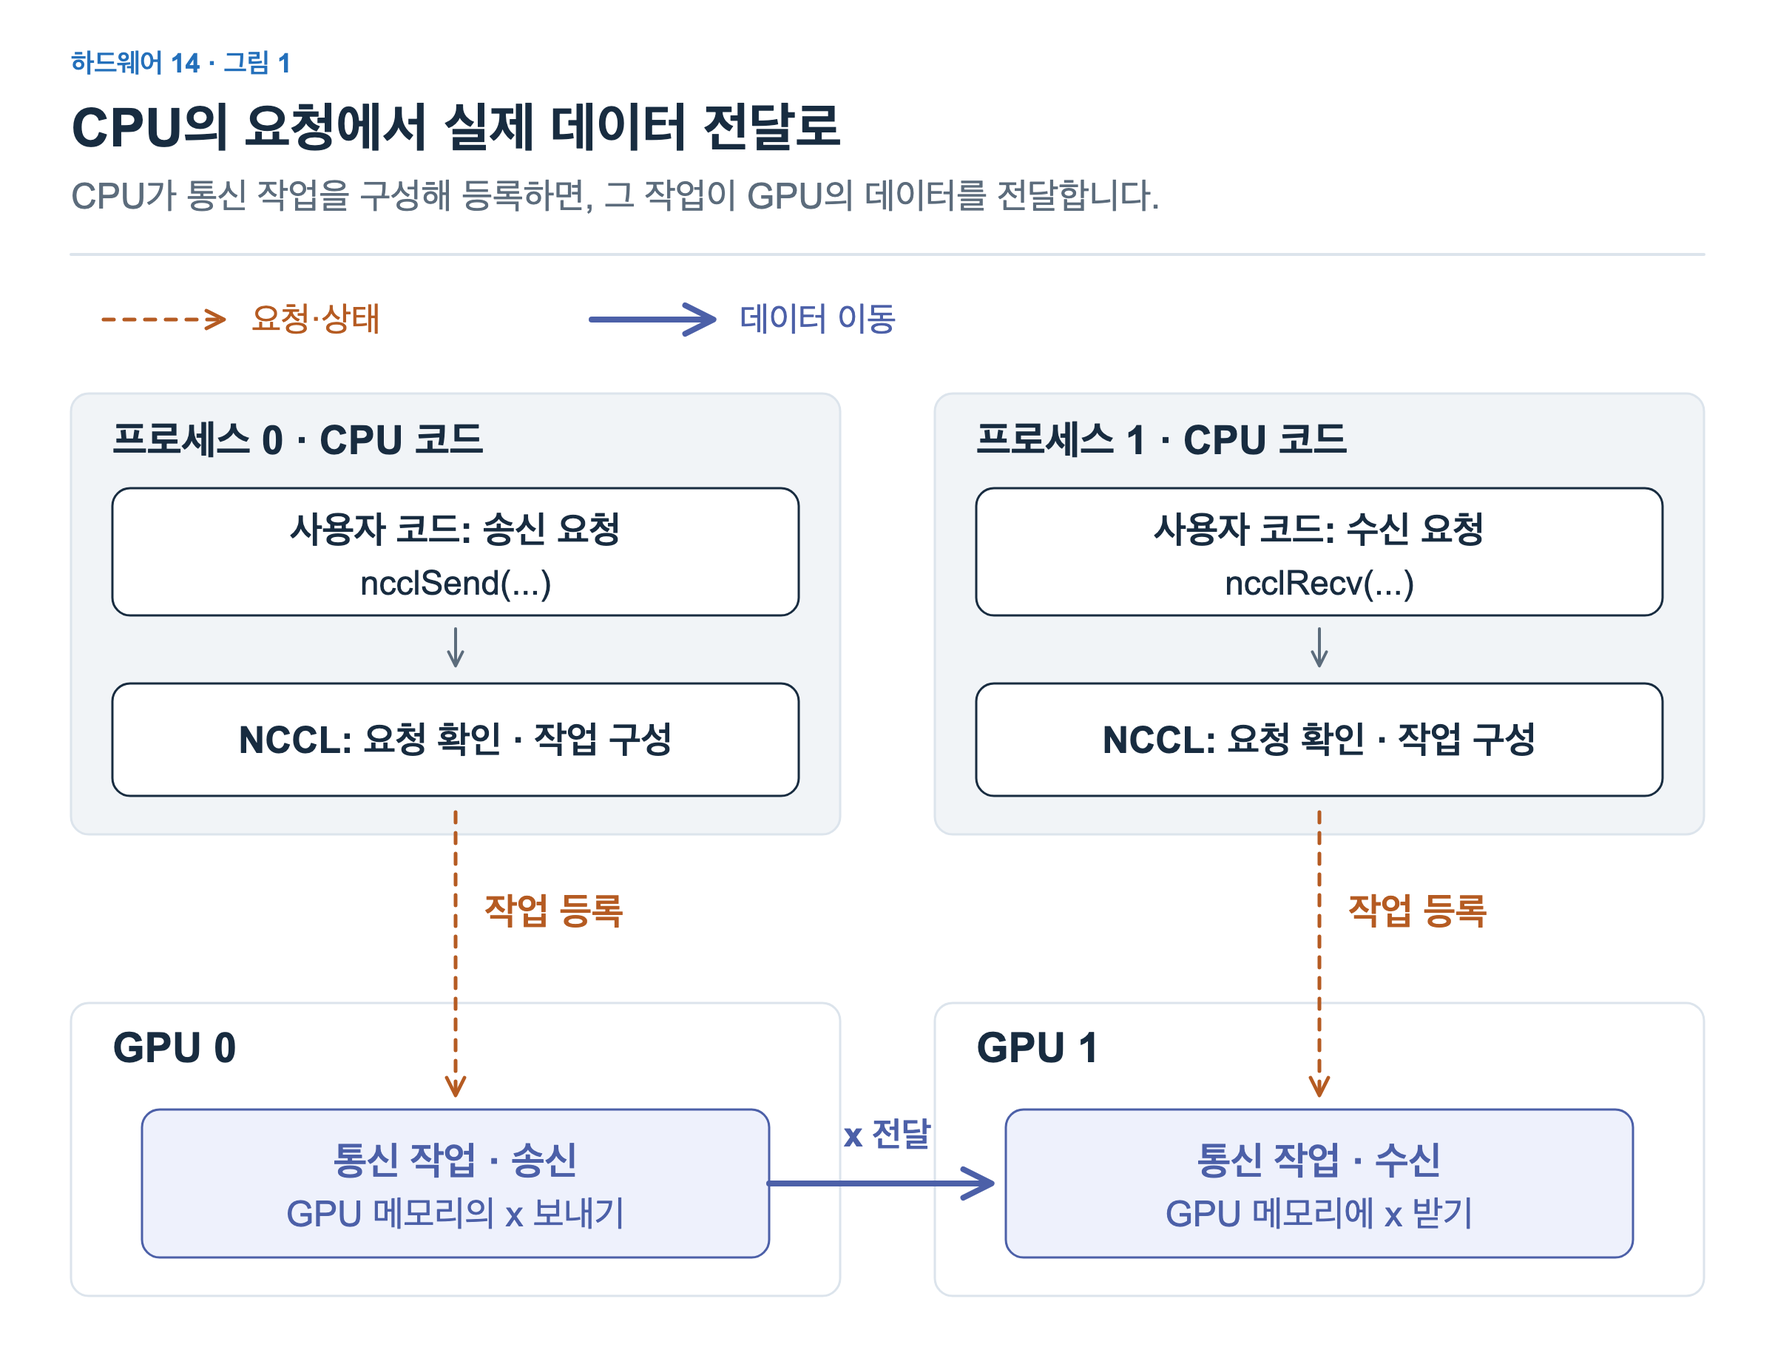
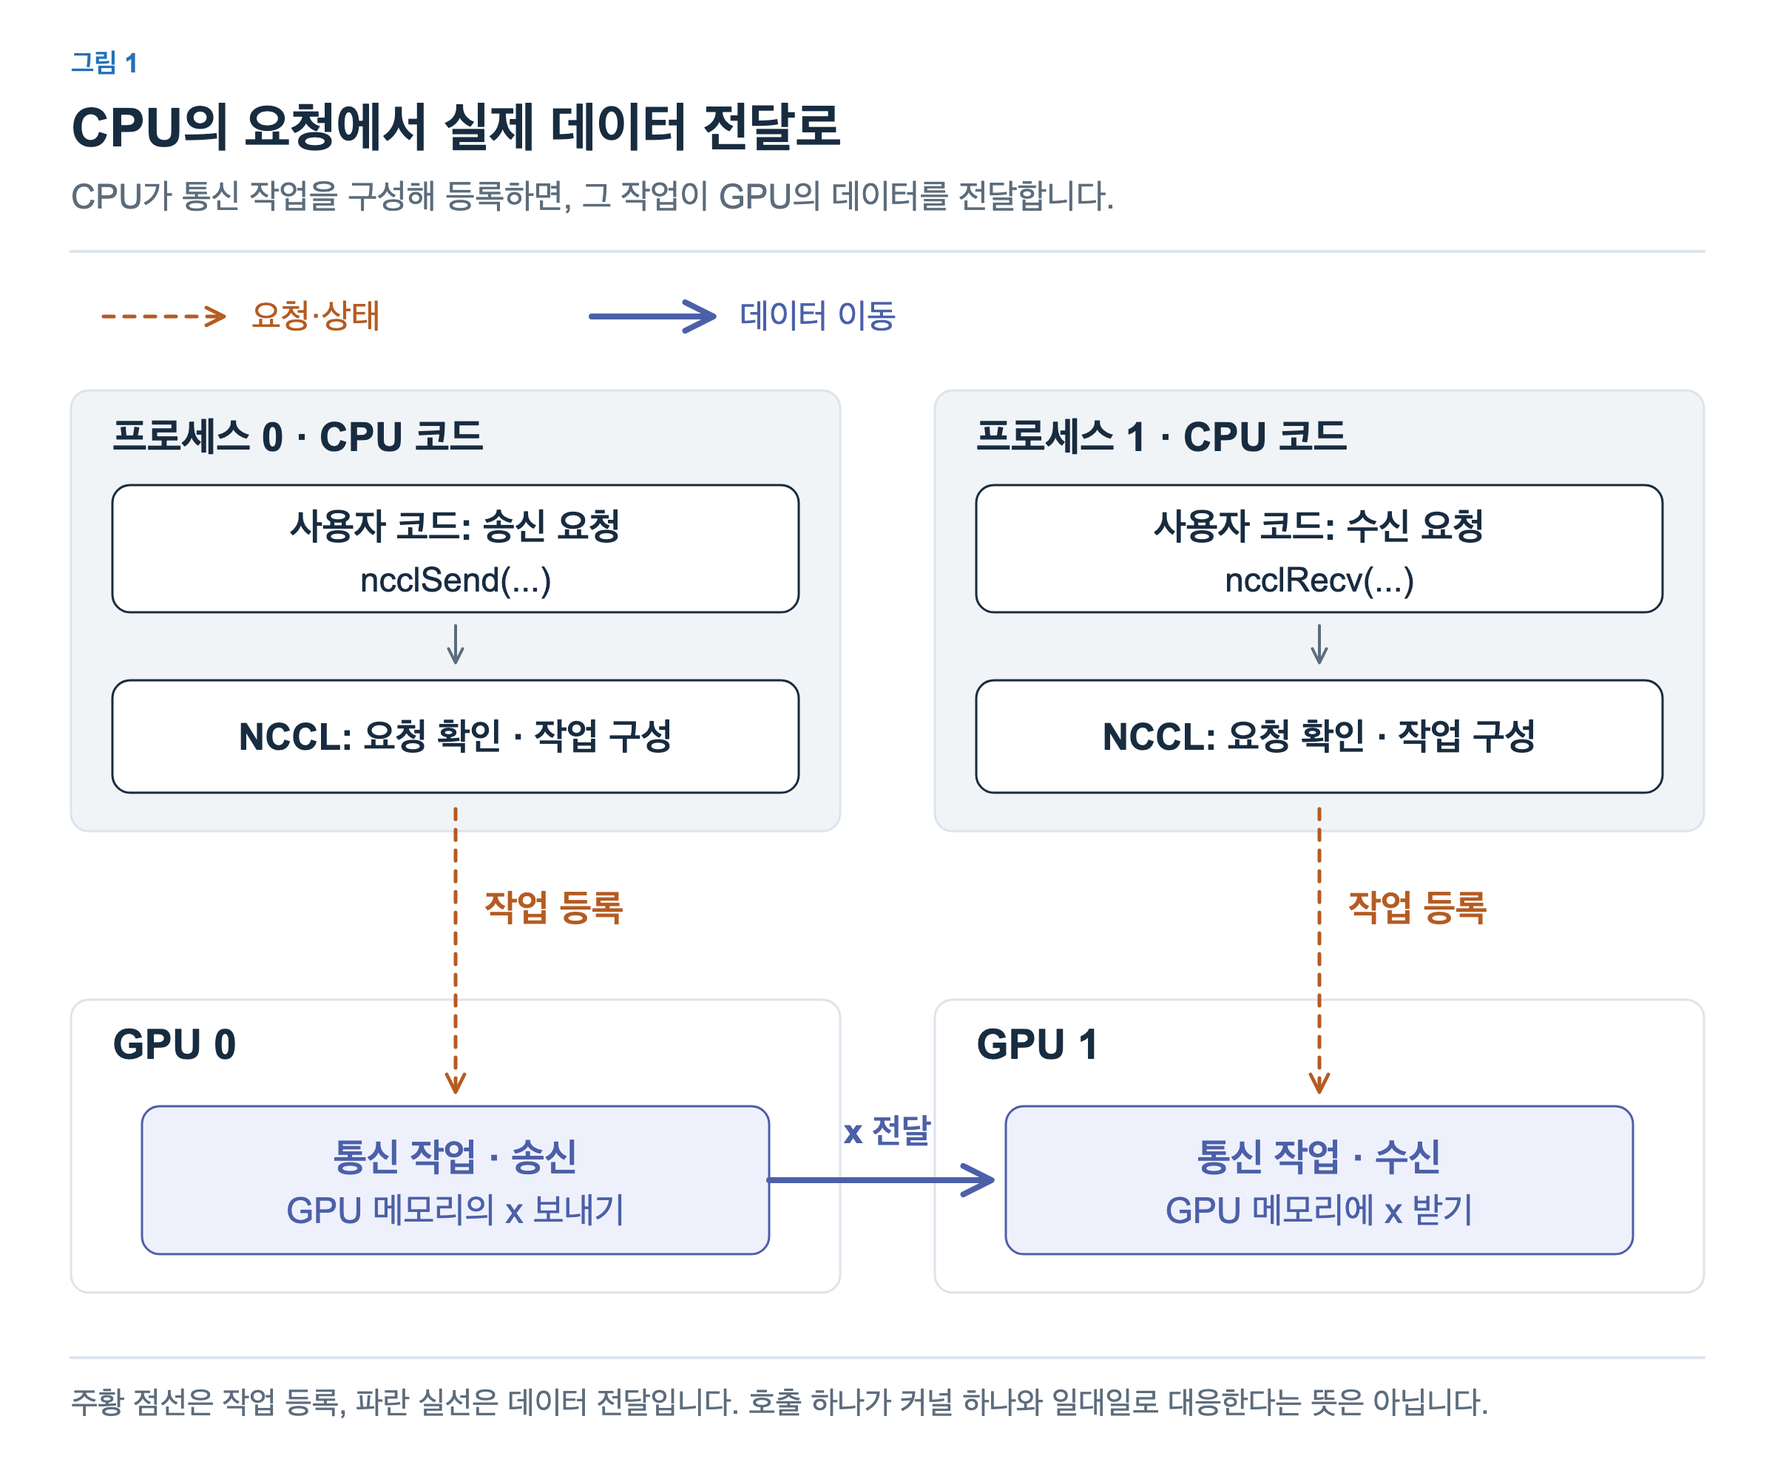
Port gpu-communication-engines figures to the shared visualization module
Figures are regenerated from src/data/figures/gpu-communication-engines with the standard frame
and in-image captions. Figures had no captions; new ko/en captions are drafted from the figures' own notes and the article text (please review). Figure 3 had no editable source and is redrawn with the shared timeline primitive.

diff --git a/src/data/figures/gpu-communication-engines/02-sm-and-copy-engine.ts b/src/data/figures/gpu-communication-engines/02-sm-and-copy-engine.ts
@@ -1,0 +1,64 @@
+import {C,Panel,markerUrl,type FigureSpec,type Locale} from '@llm-systems/viz';
+// Ported from the published SVG with its original geometry; replace parts with shared primitives when editing.
+export default {
+  articleId:"gpu-communication-engines",figureId:"02-sm-and-copy-engine",number:"02-sm-and-copy-engine",
+  layout:'wide',screens:['desktop'],
+  eyebrow:["그림 2","Figure 2"],
+  title:["같은 연결을 사용하는 SM과 복사 엔진","SMs and Copy Engines on the Same Link"],
+  subtitle:["GPU 0에서 독립 계산 C를 함께 실행하며, 같은 NVLink 연결로 전달합니다.","Transfer over the same NVLink while independent computation C runs on GPU 0."],
+  alt:["NVLink 연결과 전달 데이터를 동일하게 둔 두 복사 방식의 비교다. 위에서는 SM의 통신 커널이 GPU 0 메모리를 읽고 NVLink를 통해 상대 GPU 메모리에 쓴다. 계산 C도 SM을 사용한다. 아래에서는 지원되는 복사를 CE가 수행하고 C는 SM에서 실행한다. SM과 CE는 실행 장치이고 NVLink는 연결이다. 이 도식은 임의의 NCCL Send/Recv가 CE로 전환된다는 뜻이 아니다.","Two supported copy methods use the same data and NVLink connection. At the top, an SM communication kernel reads GPU 0 memory and writes to GPU 1 memory while C also uses SMs. Below, CE performs a supported copy while C runs on SMs. SM and CE are execution devices; NVLink is the connection. This does not imply arbitrary NCCL Send/Recv calls can switch to CE."],
+  caption:["SM과 CE는 실행 장치이고 NVLink는 연결입니다. 모든 NCCL Send/Recv가 CE로 바뀐다는 뜻은 아닙니다.","SMs and CEs are execution units; NVLink is the connection. This does not mean every NCCL Send/Recv moves to a CE."],
+  sources:[],
+  panels(locale:Locale){
+    const p=new Panel(locale,null,1058,1104,[48,208]);
+    p.el("rect",{x:48,y:207,width:1104,height:60,rx:12,fill:C.grayFill,stroke:C.line,"stroke-width":1.5});
+    p.el('text',{x:600,y:246,fill:C.ink,"font-size":25,"font-weight":600,"text-anchor":"middle"},["NVLink로 복사할 수 있는 환경 · CE가 지원하는 복사 작업","NVLink copies available · Copy operation supported by CE"]);
+    p.el('text',{x:48,y:300,fill:C.ink,"font-size":28,"font-weight":700,"text-anchor":"start"},["SM의 통신 커널로 전달","Transfer with an SM communication kernel"]);
+    p.el("rect",{x:72,y:328,width:456,height:416,rx:12,fill:C.paper,stroke:C.line,"stroke-width":1.5});
+    p.el("rect",{x:776,y:328,width:352,height:416,rx:12,fill:C.paper,stroke:C.line,"stroke-width":1.5});
+    p.el('text',{x:100,y:371,fill:C.ink,"font-size":27,"font-weight":700,"text-anchor":"start"},"GPU 0");
+    p.el('text',{x:804,y:371,fill:C.ink,"font-size":27,"font-weight":700,"text-anchor":"start"},"GPU 1");
+    p.el("rect",{x:100,y:396,width:400,height:150,rx:12,fill:C.grayFill,stroke:C.muted,"stroke-width":1.5});
+    p.el('text',{x:120,y:431,fill:C.ink,"font-size":24,"font-weight":700,"text-anchor":"start"},"SM");
+    p.el("rect",{x:120,y:449,width:166,height:70,rx:12,fill:C.purpleFill,stroke:C.purple,"stroke-width":1.5});
+    p.el('text',{x:203,y:493,fill:C.purple,"font-size":25,"font-weight":600,"text-anchor":"middle"},["계산 C","Compute C"]);
+    p.el("rect",{x:302,y:449,width:178,height:70,rx:12,fill:C.indigoFill,stroke:C.indigo,"stroke-width":1.5});
+    p.el('text',{x:391,y:493,fill:C.indigo,"font-size":(locale==='ko'?25:23),"font-weight":600,"text-anchor":"middle"},["통신 커널","Comm. kernel"]);
+    p.el("rect",{x:120,y:626,width:380,height:86,rx:12,fill:C.blueFill,stroke:C.blue,"stroke-width":1.5});
+    p.el('text',{x:310,y:663,fill:C.blue,"font-size":26,"font-weight":600,"text-anchor":"middle"},["GPU 메모리","GPU memory"]);
+    p.el('text',{x:310,y:698,fill:C.blue,"font-size":24,"font-weight":400,"text-anchor":"middle"},["전달할 x","x to send"]);
+    p.el("path",{d:"M400,616 V556",fill:"none",stroke:C.indigo,"stroke-width":4,"marker-end":markerUrl(C.indigo)});
+    p.el('text',{x:310,y:593,fill:C.indigo,"font-size":23,"font-weight":400,"text-anchor":"end"},["읽기","Read"]);
+    p.el("rect",{x:800,y:443,width:304,height:86,rx:12,fill:C.indigoFill,stroke:C.indigo,"stroke-width":1.5});
+    p.el('text',{x:952,y:480,fill:C.indigo,"font-size":26,"font-weight":600,"text-anchor":"middle"},["GPU 메모리","GPU memory"]);
+    p.el('text',{x:952,y:515,fill:C.indigo,"font-size":24,"font-weight":400,"text-anchor":"middle"},["전달받은 x","Received x"]);
+    p.el("path",{d:"M500,486 H789",fill:"none",stroke:C.indigo,"stroke-width":4,"marker-end":markerUrl(C.indigo)});
+    p.el('text',{x:650,y:456,fill:C.indigo,"font-size":26,"font-weight":600,"text-anchor":"middle"},"NVLink");
+    p.el('text',{x:650,y:529,fill:C.muted,"font-size":23,"font-weight":400,"text-anchor":"middle"},["같은 연결","Same link"]);
+    p.el('text',{x:952,y:631,fill:C.indigo,"font-size":24,"font-weight":600,"text-anchor":"middle"},["상대 GPU에 쓰기","Write to peer GPU"]);
+    p.el('text',{x:48,y:814,fill:C.ink,"font-size":28,"font-weight":700,"text-anchor":"start"},["복사 엔진 CE로 전달","Transfer with a copy engine (CE)"]);
+    p.el("rect",{x:72,y:842,width:456,height:416,rx:12,fill:C.paper,stroke:C.line,"stroke-width":1.5});
+    p.el("rect",{x:776,y:842,width:352,height:416,rx:12,fill:C.paper,stroke:C.line,"stroke-width":1.5});
+    p.el('text',{x:100,y:885,fill:C.ink,"font-size":27,"font-weight":700,"text-anchor":"start"},"GPU 0");
+    p.el('text',{x:804,y:885,fill:C.ink,"font-size":27,"font-weight":700,"text-anchor":"start"},"GPU 1");
+    p.el("rect",{x:100,y:910,width:186,height:150,rx:12,fill:C.purpleFill,stroke:C.purple,"stroke-width":1.5});
+    p.el('text',{x:193,y:979,fill:C.purple,"font-size":26,"font-weight":600,"text-anchor":"middle"},"SM");
+    p.el('text',{x:193,y:1014,fill:C.purple,"font-size":24,"font-weight":400,"text-anchor":"middle"},["계산 C","Compute C"]);
+    p.el("rect",{x:302,y:910,width:198,height:150,rx:12,fill:C.indigoFill,stroke:C.indigo,"stroke-width":1.5});
+    p.el('text',{x:401,y:979,fill:C.indigo,"font-size":(locale==='ko'?24:23),"font-weight":600,"text-anchor":"middle"},["복사 엔진 CE","Copy engine CE"]);
+    p.el('text',{x:401,y:1014,fill:C.indigo,"font-size":22,"font-weight":400,"text-anchor":"middle"},["복사 수행","Perform copy"]);
+    p.el("rect",{x:120,y:1140,width:380,height:86,rx:12,fill:C.blueFill,stroke:C.blue,"stroke-width":1.5});
+    p.el('text',{x:310,y:1177,fill:C.blue,"font-size":26,"font-weight":600,"text-anchor":"middle"},["GPU 메모리","GPU memory"]);
+    p.el('text',{x:310,y:1212,fill:C.blue,"font-size":24,"font-weight":400,"text-anchor":"middle"},["전달할 x","x to send"]);
+    p.el("path",{d:"M400,1130 V1070",fill:"none",stroke:C.indigo,"stroke-width":4,"marker-end":markerUrl(C.indigo)});
+    p.el('text',{x:310,y:1107,fill:C.indigo,"font-size":23,"font-weight":400,"text-anchor":"end"},["읽기","Read"]);
+    p.el("rect",{x:800,y:957,width:304,height:86,rx:12,fill:C.indigoFill,stroke:C.indigo,"stroke-width":1.5});
+    p.el('text',{x:952,y:994,fill:C.indigo,"font-size":26,"font-weight":600,"text-anchor":"middle"},["GPU 메모리","GPU memory"]);
+    p.el('text',{x:952,y:1029,fill:C.indigo,"font-size":24,"font-weight":400,"text-anchor":"middle"},["전달받은 x","Received x"]);
+    p.el("path",{d:"M500,1000 H789",fill:"none",stroke:C.indigo,"stroke-width":4,"marker-end":markerUrl(C.indigo)});
+    p.el('text',{x:650,y:970,fill:C.indigo,"font-size":26,"font-weight":600,"text-anchor":"middle"},"NVLink");
+    p.el('text',{x:650,y:1043,fill:C.muted,"font-size":23,"font-weight":400,"text-anchor":"middle"},["같은 연결","Same link"]);
+    p.el('text',{x:952,y:1145,fill:C.indigo,"font-size":24,"font-weight":600,"text-anchor":"middle"},["상대 GPU에 쓰기","Write to peer GPU"]);
+    return [p];
+  },
+} satisfies FigureSpec;

diff --git a/src/data/figures/gpu-communication-engines/01-call-and-transfer.ts b/src/data/figures/gpu-communication-engines/01-call-and-transfer.ts
@@ -1,0 +1,52 @@
+import {C,Panel,markerUrl,type FigureSpec,type Locale} from '@llm-systems/viz';
+// Ported from the published SVG with its original geometry; replace parts with shared primitives when editing.
+export default {
+  articleId:"gpu-communication-engines",figureId:"01-call-and-transfer",number:"01-call-and-transfer",
+  layout:'wide',screens:['desktop'],
+  eyebrow:["그림 1","Figure 1"],
+  title:["CPU의 요청에서 실제 데이터 전달로","From CPU Requests to Data Transfer"],
+  subtitle:["CPU가 통신 작업을 구성해 등록하면, 그 작업이 GPU의 데이터를 전달합니다.","The CPU builds and submits communication work, which then transfers GPU data."],
+  alt:["CPU 프로세스 0과 1의 사용자 코드가 NCCL 송신과 수신을 요청한다. NCCL은 요청을 확인하고 실행할 작업을 구성한다. 주황 점선은 각 GPU에서 실행할 작업의 등록이며 파란 실선은 GPU 0 메모리의 x가 GPU 1 메모리로 전달되는 관계다. 하나의 호출이 하나의 커널과 일대일 대응한다는 의미는 아니다.","CPU processes 0 and 1 request a send and a receive from NCCL. NCCL checks the requests, builds the work and submits it. Orange dashed arrows show submission; the blue solid arrow shows transfer of x from GPU 0 memory to GPU 1 memory. One CPU call does not necessarily correspond to one GPU kernel."],
+  caption:["주황 점선은 작업 등록, 파란 실선은 데이터 전달입니다. 호출 하나가 커널 하나와 일대일로 대응한다는 뜻은 아닙니다.","Orange dashed lines are work submission; blue solid lines are data transfer. One call does not necessarily map to one kernel."],
+  sources:[],
+  panels(locale:Locale){
+    const p=new Panel(locale,null,676,1104,[48,208]);
+    p.el("path",{d:"M70,216 H150",fill:"none",stroke:C.orange,"stroke-width":2.5,"marker-end":markerUrl(C.orange),"stroke-dasharray":"7 7"});
+    p.el('text',{x:170,y:224,fill:C.orange,"font-size":23,"font-weight":400,"text-anchor":"start"},["요청·상태","Requests / state"]);
+    p.el("path",{d:"M400,216 H480",fill:"none",stroke:C.indigo,"stroke-width":4,"marker-end":markerUrl(C.indigo)});
+    p.el('text',{x:500,y:224,fill:C.indigo,"font-size":23,"font-weight":400,"text-anchor":"start"},["데이터 이동","Data movement"]);
+    p.el("rect",{x:48,y:266,width:520,height:298,rx:12,fill:C.grayFill,stroke:C.line,"stroke-width":1.5});
+    p.el('text',{x:76,y:307,fill:C.ink,"font-size":27,"font-weight":700,"text-anchor":"start"},["프로세스 0 · CPU 코드","Process 0 · CPU code"]);
+    p.el("rect",{x:76,y:330,width:464,height:86,rx:12,fill:C.paper,stroke:C.ink,"stroke-width":1.5});
+    p.el('text',{x:308,y:367,fill:C.ink,"font-size":25,"font-weight":600,"text-anchor":"middle"},["사용자 코드: 송신 요청","User code: request a send"]);
+    p.el('text',{x:308,y:402,fill:C.ink,"font-size":23,"font-weight":400,"text-anchor":"middle"},"ncclSend(...)");
+    p.el("path",{d:"M308,425 V449",fill:"none",stroke:C.muted,"stroke-width":2,"marker-end":markerUrl(C.muted)});
+    p.el("rect",{x:76,y:462,width:464,height:76,rx:12,fill:C.paper,stroke:C.ink,"stroke-width":1.5});
+    p.el('text',{x:308,y:509,fill:C.ink,"font-size":(locale==='ko'?25:24),"font-weight":600,"text-anchor":"middle"},["NCCL: 요청 확인 · 작업 구성","NCCL: check request, build work"]);
+    p.el("rect",{x:48,y:678,width:520,height:198,rx:12,fill:C.paper,stroke:C.line,"stroke-width":1.5});
+    p.el('text',{x:76,y:718,fill:C.ink,"font-size":28,"font-weight":700,"text-anchor":"start"},"GPU 0");
+    p.el("rect",{x:96,y:750,width:424,height:100,rx:12,fill:C.indigoFill,stroke:C.indigo,"stroke-width":1.5});
+    p.el('text',{x:308,y:794,fill:C.indigo,"font-size":26,"font-weight":600,"text-anchor":"middle"},["통신 작업 · 송신","Communication · Send"]);
+    p.el('text',{x:308,y:829,fill:C.indigo,"font-size":24,"font-weight":400,"text-anchor":"middle"},["GPU 메모리의 x 보내기","Send x from GPU memory"]);
+    p.el("path",{d:"M308,549 V739",fill:"none",stroke:C.orange,"stroke-width":2.5,"marker-end":markerUrl(C.orange),"stroke-dasharray":"7 7"});
+    p.el('text',{x:328,y:625,fill:C.orange,"font-size":25,"font-weight":600,"text-anchor":"start"},["작업 등록","Submit work"]);
+    p.el("rect",{x:632,y:266,width:520,height:298,rx:12,fill:C.grayFill,stroke:C.line,"stroke-width":1.5});
+    p.el('text',{x:660,y:307,fill:C.ink,"font-size":27,"font-weight":700,"text-anchor":"start"},["프로세스 1 · CPU 코드","Process 1 · CPU code"]);
+    p.el("rect",{x:660,y:330,width:464,height:86,rx:12,fill:C.paper,stroke:C.ink,"stroke-width":1.5});
+    p.el('text',{x:892,y:367,fill:C.ink,"font-size":25,"font-weight":600,"text-anchor":"middle"},["사용자 코드: 수신 요청","User code: request a receive"]);
+    p.el('text',{x:892,y:402,fill:C.ink,"font-size":23,"font-weight":400,"text-anchor":"middle"},"ncclRecv(...)");
+    p.el("path",{d:"M892,425 V449",fill:"none",stroke:C.muted,"stroke-width":2,"marker-end":markerUrl(C.muted)});
+    p.el("rect",{x:660,y:462,width:464,height:76,rx:12,fill:C.paper,stroke:C.ink,"stroke-width":1.5});
+    p.el('text',{x:892,y:509,fill:C.ink,"font-size":(locale==='ko'?25:24),"font-weight":600,"text-anchor":"middle"},["NCCL: 요청 확인 · 작업 구성","NCCL: check request, build work"]);
+    p.el("rect",{x:632,y:678,width:520,height:198,rx:12,fill:C.paper,stroke:C.line,"stroke-width":1.5});
+    p.el('text',{x:660,y:718,fill:C.ink,"font-size":28,"font-weight":700,"text-anchor":"start"},"GPU 1");
+    p.el("rect",{x:680,y:750,width:424,height:100,rx:12,fill:C.indigoFill,stroke:C.indigo,"stroke-width":1.5});
+    p.el('text',{x:892,y:794,fill:C.indigo,"font-size":26,"font-weight":600,"text-anchor":"middle"},["통신 작업 · 수신","Communication · Receive"]);
+    p.el('text',{x:892,y:829,fill:C.indigo,"font-size":24,"font-weight":400,"text-anchor":"middle"},["GPU 메모리에 x 받기","Receive x into GPU memory"]);
+    p.el("path",{d:"M892,549 V739",fill:"none",stroke:C.orange,"stroke-width":2.5,"marker-end":markerUrl(C.orange),"stroke-dasharray":"7 7"});
+    p.el('text',{x:912,y:625,fill:C.orange,"font-size":25,"font-weight":600,"text-anchor":"start"},["작업 등록","Submit work"]);
+    p.el("path",{d:"M520,800 H668",fill:"none",stroke:C.indigo,"stroke-width":4,"marker-end":markerUrl(C.indigo)});
+    p.el('text',{x:600,y:775,fill:C.indigo,"font-size":23,"font-weight":600,"text-anchor":"middle"},["x 전달","Transfer x"]);
+    return [p];
+  },
+} satisfies FigureSpec;

diff --git a/src/data/figures/gpu-communication-engines/03-communication-and-compute.ts b/src/data/figures/gpu-communication-engines/03-communication-and-compute.ts
@@ -1,0 +1,29 @@
+import {Panel,C,timeline,type FigureSpec,type Locale} from '@llm-systems/viz';
+// Redrawn with the shared timeline primitive from the published SVG; its original generator was not kept.
+export default {
+  articleId:'gpu-communication-engines',figureId:'03-communication-and-compute',number:'hardware-14-3',
+  layout:'wide',screens:['desktop'],
+  eyebrow:['그림 3','Figure 3'],
+  title:['통신과 계산을 함께 마치는 시간','Time to Finish Communication and Compute'],
+  subtitle:['통신 시간이 같아도 SM 자원 경쟁이 줄면 계산 C가 더 일찍 끝날 수 있습니다.','With equal communication time, less SM contention can let C finish earlier.'],
+  alt:['위는 SM 통신 커널과 독립 계산 C가 SM 자원을 함께 사용해 C가 늦어지는 경우다. 아래는 지원되는 복사를 CE가 맡아 SM 경쟁이 줄어 C가 더 일찍 끝날 수 있는 경우다. 두 경우 전달량과 계산량, 통신 시간은 같다. 전체 완료는 통신과 C가 모두 끝나는 시점이다. CE도 메모리와 연결 대역폭을 사용하므로 성능 개선을 항상 보장하는 그림이 아니며 실측 수치가 아니다.','An example where sharing SM resources with communication slows independent computation C. Using CE for a supported copy can reduce this contention and let C finish earlier. Transfer volume, computation and communication time are equal. Overall completion means both communication and C have finished. CE still uses memory and link bandwidth; this is an illustration, not a measurement or guaranteed improvement.'],
+  caption:['통신 시간과 계산량은 두 경우에 같습니다. CE도 메모리와 연결 대역폭을 사용하므로 개선이 항상 보장되지는 않으며, 실측 수치가 아닙니다.','Communication time and work are the same in both cases. CE also uses memory and link bandwidth, so improvement is not guaranteed; this is not a measurement.'],
+  sources:[],
+  panels(locale:Locale){
+    const p=new Panel(locale,null,850,1120);
+    p.rect(8,10,1104,60,C.grayFill,C.line,12);
+    p.text(560,50,['같은 통신·계산 C · SM 자원 경쟁이 계산을 늦추는 경우','Same transfer and C · Case where SM contention slows computation'],{size:25,weight:600,anchor:'middle',width:1080});
+    // Illustrative durations in pixels of the time axis, not measurements.
+    const cases=[{y:121,title:['SM을 통신과 계산이 함께 사용','Communication and compute share SMs'],engine:['통신 (SM)','Comm. (SM)'],compute:780},{y:516,title:['복사를 CE에 맡기고 SM에서 계산','CE copies while SMs compute'],engine:['통신 (CE)','Comm. (CE)'],compute:580}] as const;
+    for(const c of cases){
+      p.text(8,c.y,c.title,{size:28,weight:700,width:1100});
+      const t=timeline(p,{x:8,y:c.y+44,width:1094,span:892,labelWidth:202,axis:['시간 →','Time →'],lanes:[
+        {label:c.engine,bars:[{from:0,to:450,label:['같은 통신 시간','Same communication time'],tone:'indigo'}]},
+        {label:['계산 C','Compute C'],bars:[{from:0,to:c.compute,label:['SM에서 계산','Compute on SMs'],tone:'purple'}]},
+      ]});
+      t.mark(450,0,['통신 완료','Comm. complete'],'indigo','start');
+      t.mark(c.compute,1,['전체 완료','Overall completion']);
+    }
+    return [p];
+  },
+} satisfies FigureSpec;
